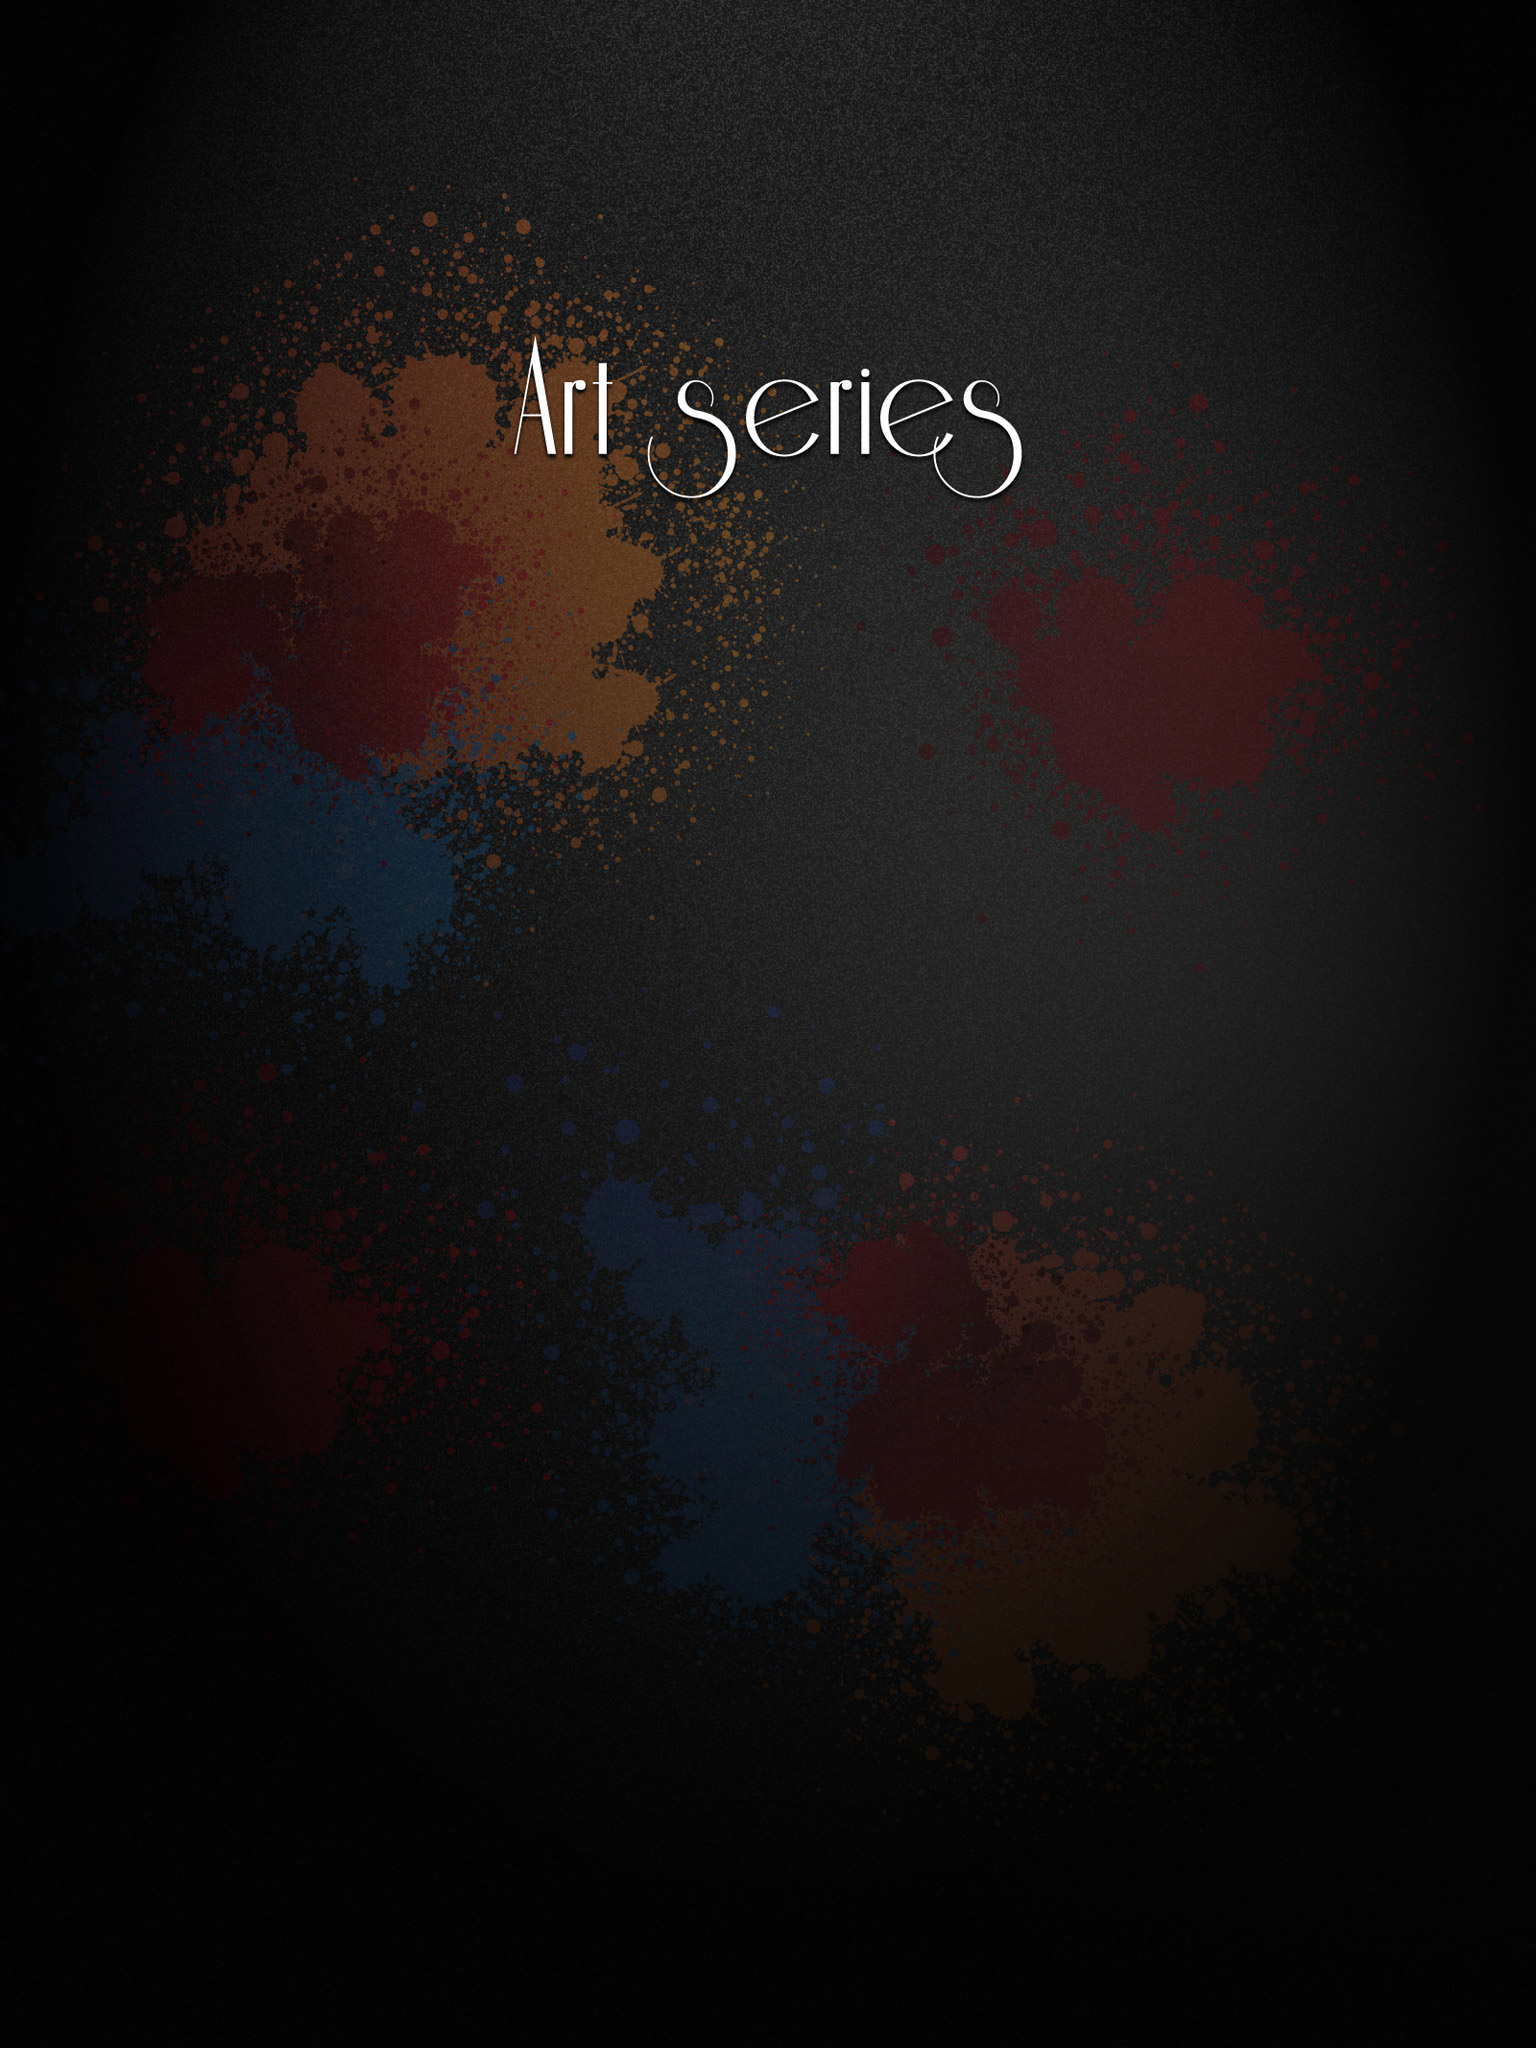
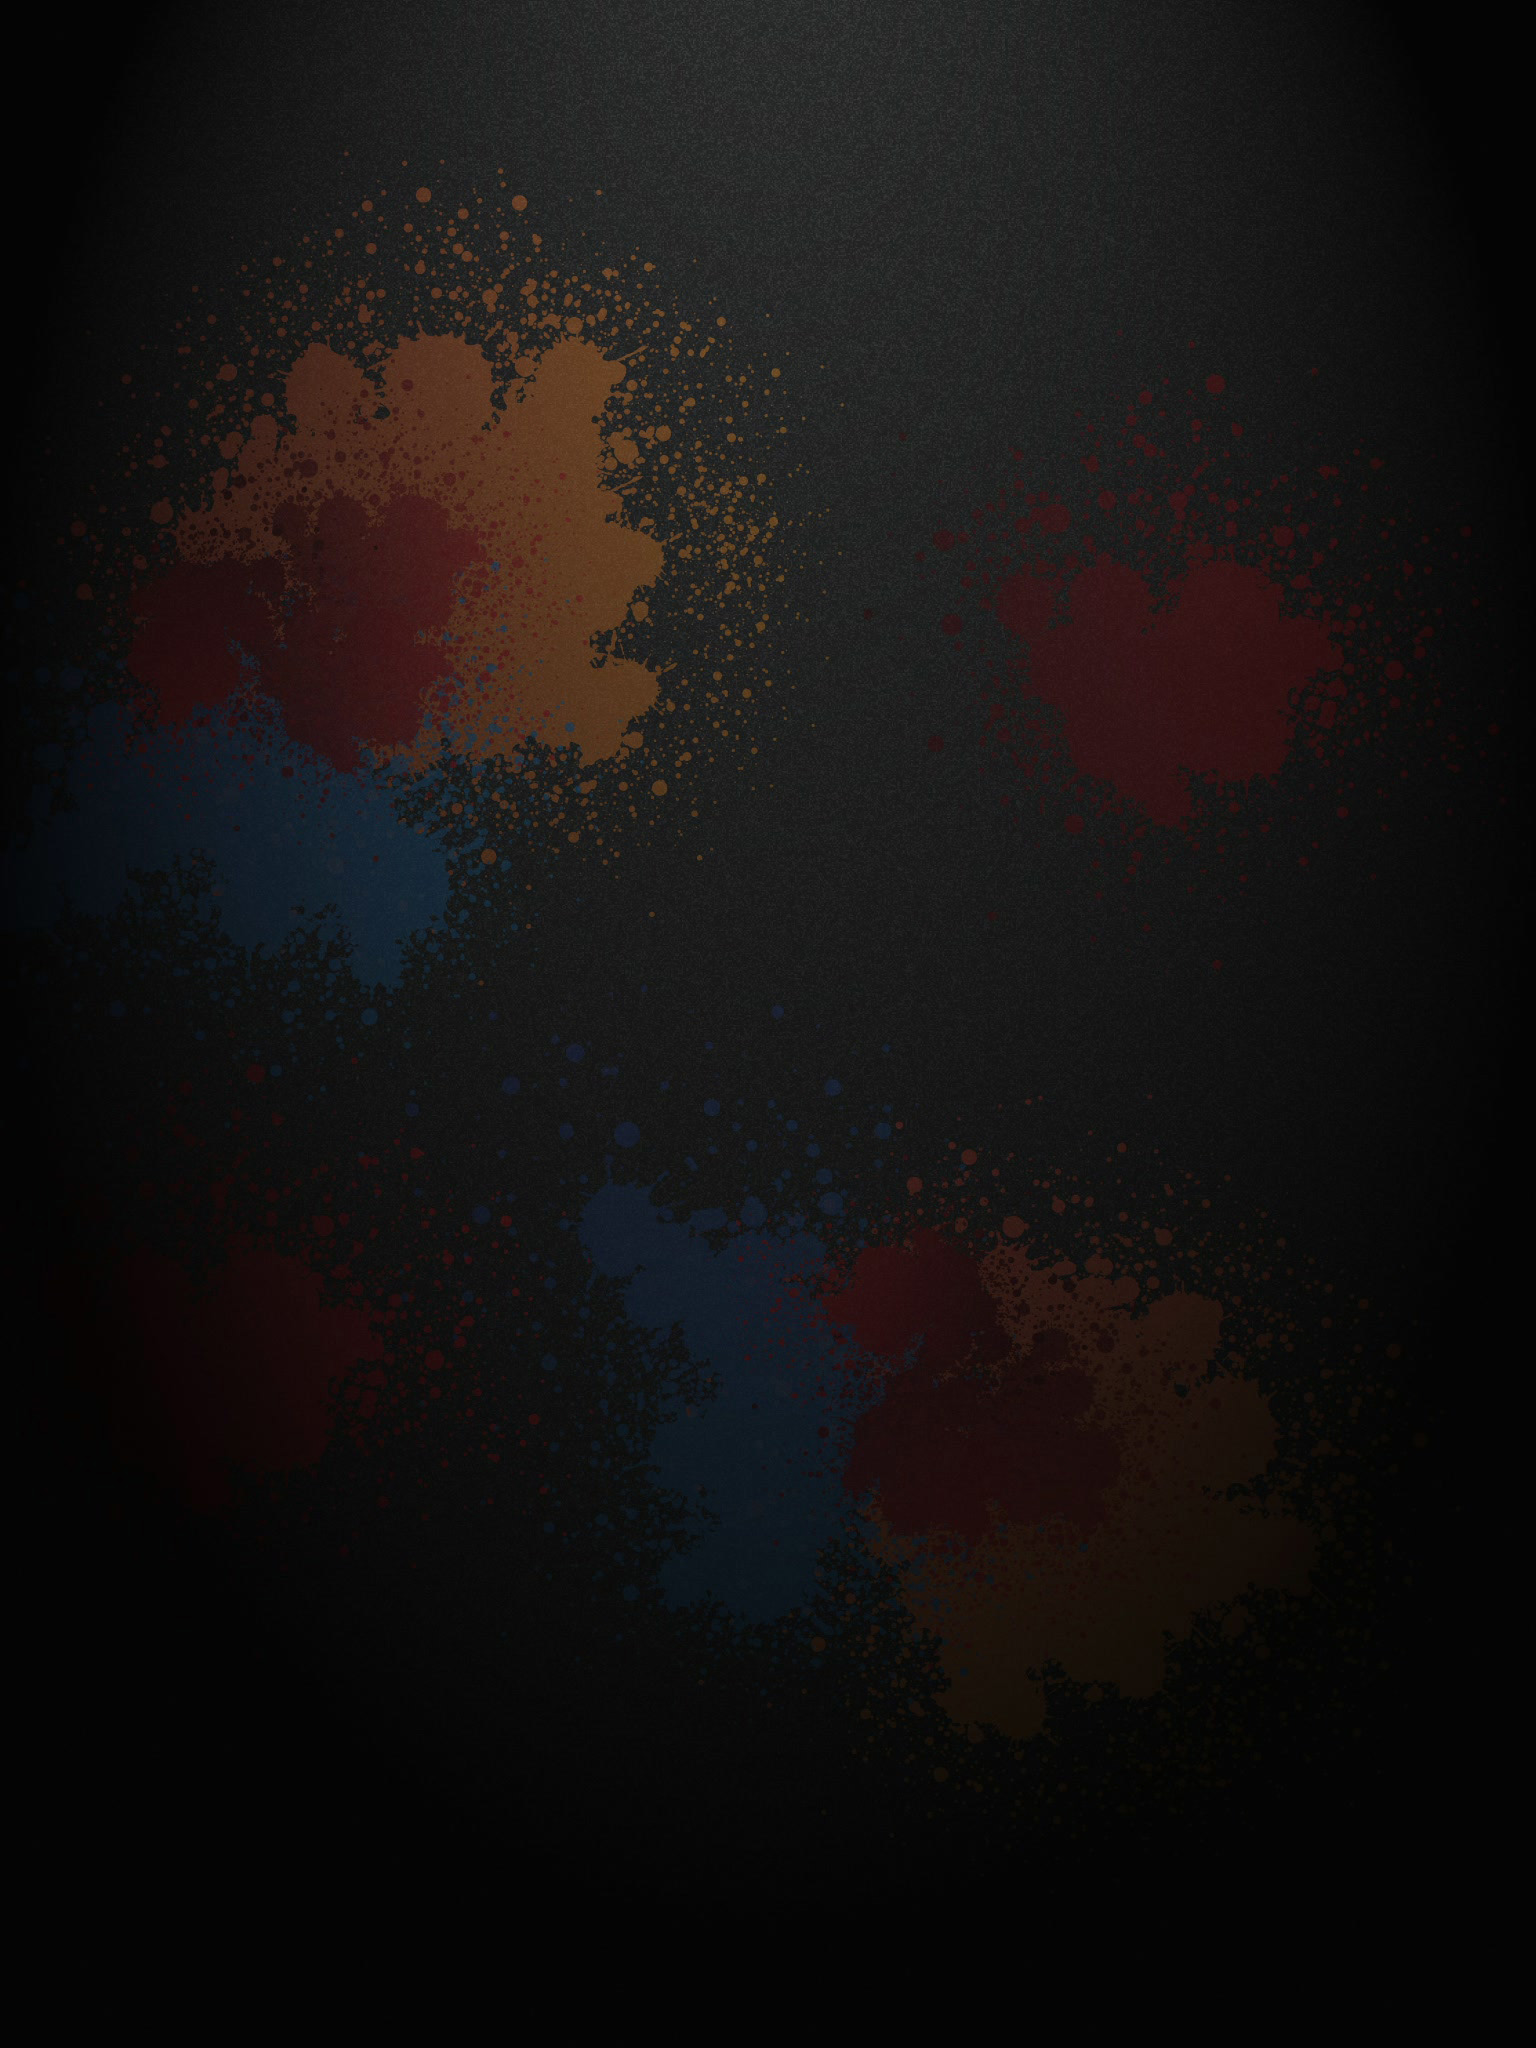
1st level categories fixed backgrounds and lbl/img title... also a bug fix - when viewdidload we should call fix titles instead of dolocalize added resources for ing titles for art/designer

diff --git a/DP/ControllersPaid/DPCategoryViewController.m b/DP/ControllersPaid/DPCategoryViewController.m
@@ -69,24 +69,29 @@
     self.adsView.backgroundColor = [UIColor clearColor];
     self.ctgView.backgroundColor = [UIColor clearColor];
     self.mmView.backgroundColor = [UIColor clearColor];
+    self.imgTitle.backgroundColor = [UIColor clearColor];
+    self.imgTitle.contentMode = UIViewContentModeTop;
     
-    if (self.category == CTGID_EXCLUSIVE_DESIGNER || self.category == CTGID_EXCLUSIVE_ART) {
-        // ok do not touch it... we will show an image...
-    } else {
-        CGRect lblframe = self.lblTitle.frame;
-        lblframe.size.height = IS_IPAD ? 32 : 20;
-        self.lblTitle.frame = lblframe;
-        
-        self.lblTitle.font = [UIFont systemFontOfSize: IS_IPAD ? 28.0f : 14.0f];
-    }
+    CGRect lblframe = self.lblTitle.frame;
+    lblframe.size.height = IS_IPAD ? 32 : 20;
+    self.lblTitle.frame = lblframe;
+    self.lblTitle.font = [UIFont systemFontOfSize: IS_IPAD ? 28.0f : 14.0f];
     
-    [self doLocalize];
+    [self fixTitleLabel];
 }
 
 - (void) fixTitleLabel {
     if (self.category == CTGID_EXCLUSIVE_DESIGNER || self.category == CTGID_EXCLUSIVE_ART) {
         self.lblTitle.text = nil;
+        self.lblTitle.hidden = YES;
+        self.imgTitle.hidden = NO;
+        NSString *ctgName = self.category == CTGID_EXCLUSIVE_DESIGNER ? @"designer" : @"art";
+        NSString *orientation = IS_PORTRAIT ? @"v" : @"h";
+        NSString *imgName = [NSString stringWithFormat:@"Background/logo_%@_%@.png", ctgName, orientation];
+        self.imgTitle.image = [UIImage imageNamed:imgName];
     } else {
+        self.imgTitle.hidden = YES;
+        self.lblTitle.hidden = NO;
         NSString *ctgTitleKey = [NSString stringWithFormat:kMENU_TITLE_Fmt, self.category];
         self.lblTitle.text = DPLocalizedString(ctgTitleKey);
     }
@@ -117,6 +122,7 @@
     [self setMmView:nil];
     [self setLblTitle:nil];
     [self setActualCtgView:nil];
+    [self setImgTitle:nil];
     [super viewDidUnload];
 }
 
@@ -200,10 +206,14 @@
     
     if (self.category == CTGID_EXCLUSIVE_DESIGNER || self.category == CTGID_EXCLUSIVE_ART) {
         self.lblTitle.frame = CGRectZero;
+        self.imgTitle.frame = CGRectMake(0, 0,
+                                         self.ctgView.frame.size.width,
+                                         120);
     } else {
+        self.imgTitle.frame = CGRectZero;
         self.lblTitle.frame = CGRectMake(0, 0,
                                          self.ctgView.frame.size.width,
-                                         self.lblTitle.frame.size.height);
+                                         IS_IPAD ? 32 : 20);
     }
     self.actualCtgView.frame = CGRectMake(0,
                                           self.lblTitle.frame.size.height,

diff --git a/DP/ControllersPaid/DPCategoryViewController.h b/DP/ControllersPaid/DPCategoryViewController.h
@@ -18,6 +18,7 @@
 @property (strong, nonatomic) IBOutlet UIView *adsView;
 @property (strong, nonatomic) IBOutlet UIView *mmView;
 
+@property (strong, nonatomic) IBOutlet UIImageView *imgTitle;
 @property (strong, nonatomic) IBOutlet UILabel *lblTitle;
 @property (strong, nonatomic) IBOutlet UIView *actualCtgView;
 
